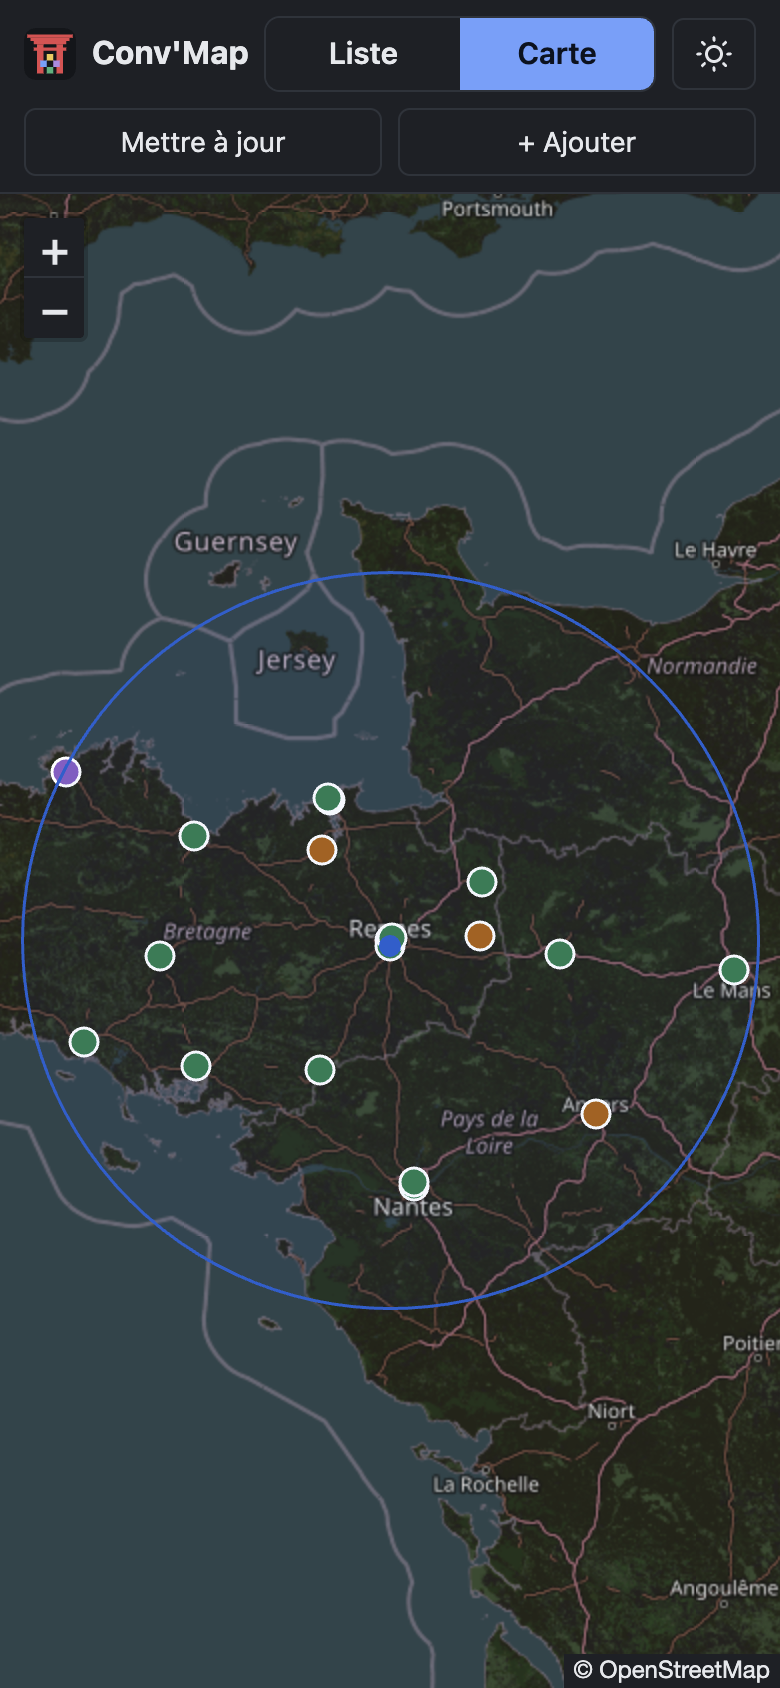
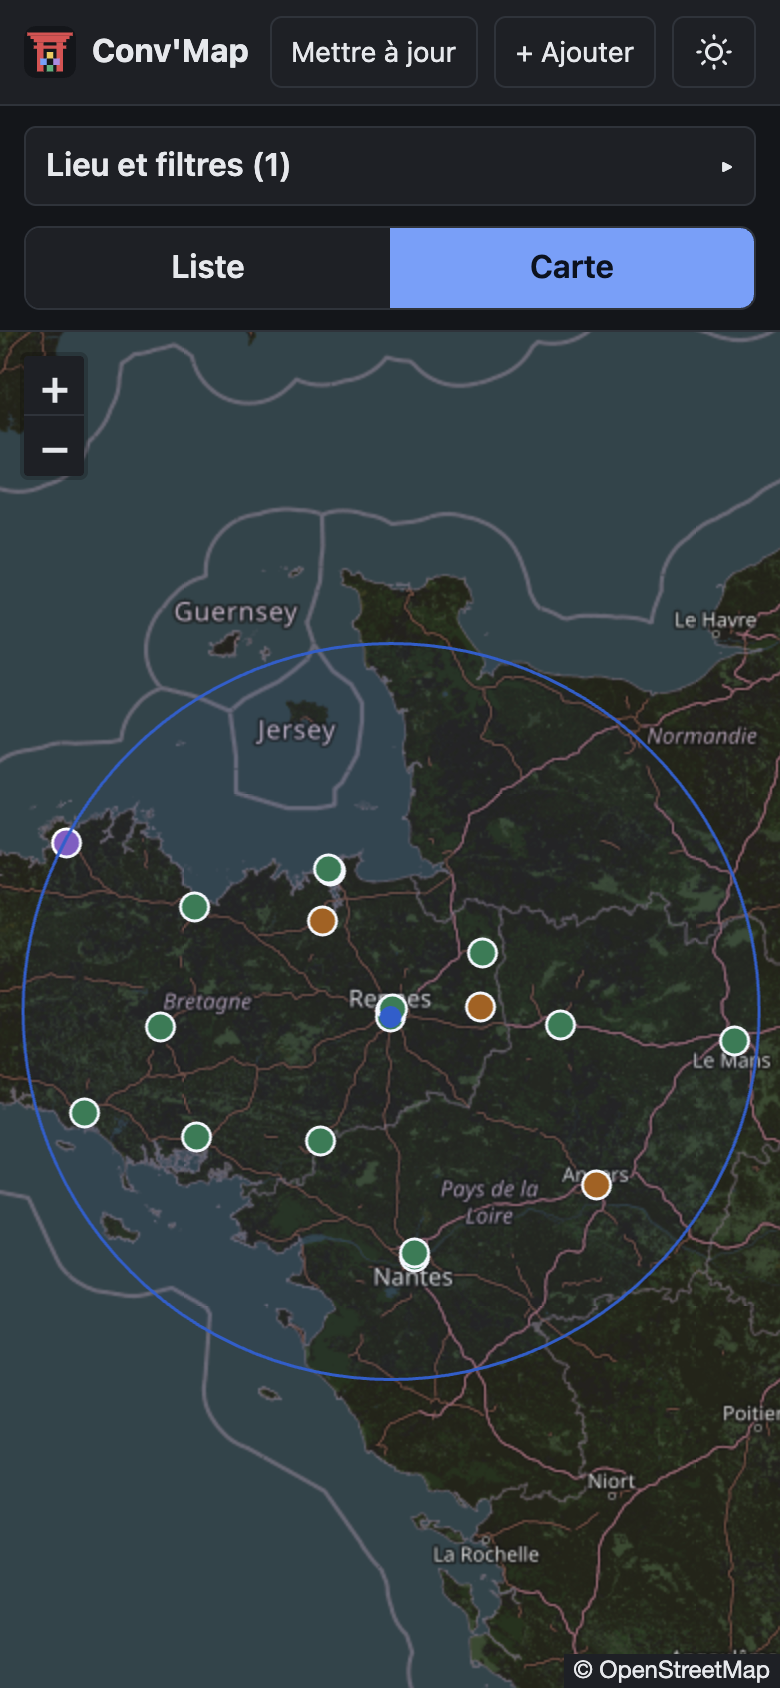
On a phone, put the list / map switch under the filters
The switch sat in the header and the map view hid the whole panel,
filters included. The place and the filters now stay on top of both
views, the switch comes right under them, and below it is either the
list or the map. Status messages sit with the filters, so they show in
both views too.

The map is laid out in the page flow instead of being stacked under the
list and hidden.

diff --git a/public/app.css b/public/app.css
@@ -89,7 +89,7 @@ button[aria-pressed="true"] { background: var(--accent); border-color: var(--acc
 .bar { display: flex; align-items: center; gap: 8px; margin: 14px 0 8px; position: sticky; top: -12px; background: var(--ground); padding: 8px 0; z-index: 2; flex-wrap: wrap; }
 .bar strong { margin-right: auto; }
 .bar select { width: auto; }
-.status { background: var(--note); border: 1px solid var(--note-line); border-radius: 6px; padding: 8px 10px; }
+.status { margin: 12px 0 0; background: var(--note); border: 1px solid var(--note-line); border-radius: 6px; padding: 8px 10px; }
 
 .row { display: grid; grid-template-columns: auto 1fr; gap: 2px 10px; background: var(--card); border: 1px solid var(--line); border-radius: 8px; padding: 9px 11px; margin-bottom: 7px; }
 .row.flash { border-color: var(--accent); box-shadow: 0 0 0 2px color-mix(in srgb, var(--accent) 25%, transparent); }
@@ -188,20 +188,22 @@ button.primary.copied { background: var(--regular); border-color: var(--regular)
   button, select, input:not([type=checkbox]):not([type=radio]):not([type=range]) { min-height: 40px; }
 
   .top { padding: 8px 12px; gap: 8px; }
-  .top h1 { font-size: 16px; margin-right: 0; }
+  .top h1 { font-size: 16px; }
   .top h1 span, #fetched, .long { display: none; }
-  /* Wide enough a basis that the two actions always go to the second line. */
-  .views { display: grid; grid-template-columns: 1fr 1fr; flex: 1 1 60%; min-width: 150px; border: 1px solid var(--line); border-radius: 8px; overflow: hidden; }
-  .views button { border: 0; border-radius: 0; min-height: 36px; font-size: 15px; font-weight: 600; }
-  /* Second line of the header : the two actions, side by side. */
-  .top > button { font-size: 14px; padding: 4px 10px; min-height: 34px; order: 2; flex: 1 1 40%; white-space: nowrap; }
-  .top .icon-button { order: 1; flex: none; min-height: 36px; height: 36px; width: 40px; }
+  .top > button { font-size: 14px; padding: 4px 10px; min-height: 36px; white-space: nowrap; }
+  .top .icon-button { flex: none; height: 36px; width: 40px; }
 
-  main { display: block; position: relative; }
-  .panel { height: 100%; padding: 10px 12px 24px; }
-  #map { position: absolute; inset: 0; min-height: 0; border: 0; }
-  body:not([data-view="map"]) #map { visibility: hidden; pointer-events: none; }
-  body[data-view="map"] .panel { display: none; }
+  /* Top to bottom : the place and filters, the list / map switch, then
+     whichever of the two is chosen. The filters apply to both. */
+  main { display: flex; flex-direction: column; position: relative; min-height: 0; }
+  .panel { display: contents; }
+  .panel-head { flex: none; max-height: 64dvh; overflow-y: auto; padding: 10px 12px; border-bottom: 1px solid var(--line); }
+  .panel-list { flex: 1; min-height: 0; overflow-y: auto; padding: 0 12px 24px; }
+  #map { flex: 1; min-height: 0; border: 0; }
+  body:not([data-view="map"]) #map { display: none; }
+  body[data-view="map"] .panel-list { display: none; }
+  .views { display: grid; grid-template-columns: 1fr 1fr; margin-top: 10px; border: 1px solid var(--line); border-radius: 8px; overflow: hidden; }
+  .views button { border: 0; border-radius: 0; min-height: 40px; font-weight: 600; }
 
   #filters-toggle { display: block; width: 100%; text-align: left; font-weight: 600; }
   #filters-toggle::after { content: '▸'; float: right; }
@@ -212,7 +214,7 @@ button.primary.copied { background: var(--regular); border-color: var(--regular)
   .filters .wide { grid-column: 1 / -1; }
   .km input { width: 96px; }
 
-  .bar { top: -10px; margin-top: 10px; }
+  .bar { top: 0; margin-top: 0; padding-top: 10px; }
   .bar strong { flex-basis: 100%; }
   .bar select { flex: 1; }
   #check-all, #check-none { display: none; }

diff --git a/public/index.html b/public/index.html
@@ -17,10 +17,6 @@
 <body>
 <header class="top">
   <h1><img class="logo" src="favicon.svg" alt="" width="26" height="26">Conv'Map <span>conventions par zone</span></h1>
-  <nav class="views" aria-label="Affichage">
-    <button type="button" data-view="list" aria-pressed="true">Liste</button>
-    <button type="button" data-view="map" aria-pressed="false">Carte</button>
-  </nav>
   <span id="fetched" class="muted"></span>
   <button id="refetch" type="button">Mettre à jour<span class="long"> depuis l'agenda</span></button>
   <button id="add" type="button">+ Ajouter<span class="long"> un évènement</span></button>
@@ -29,6 +25,7 @@
 
 <main>
   <section class="panel">
+    <div class="panel-head">
     <button id="filters-toggle" type="button" aria-expanded="false"></button>
     <div id="filters-box">
     <div class="searches">
@@ -84,6 +81,13 @@
       <datalist id="cities"></datalist>
     </form>
     </div>
+    <p id="status" class="status" hidden></p>
+    <nav class="views" aria-label="Affichage">
+      <button type="button" data-view="list" aria-pressed="true">Liste</button>
+      <button type="button" data-view="map" aria-pressed="false">Carte</button>
+    </nav>
+    </div>
+    <div class="panel-list">
 
     <div class="bar">
       <strong id="count"></strong>
@@ -96,13 +100,13 @@
       <button id="export" type="button" class="primary">Exporter…</button>
     </div>
 
-    <p id="status" class="status" hidden></p>
     <div id="list"></div>
     <details id="unlocated" hidden>
       <summary></summary>
       <div id="unlocated-list"></div>
     </details>
     <footer class="credits">Conv'Map — développé par <a href="https://github.com/meitogi" target="_blank" rel="noopener">meitogi</a> · données : <a href="https://lagendageek.com" target="_blank" rel="noopener">L'Agenda Geek</a> · carte © les contributeurs d'<a href="https://www.openstreetmap.org/copyright" target="_blank" rel="noopener">OpenStreetMap</a></footer>
+    </div>
   </section>
   <div id="map"></div>
   <aside id="map-card" hidden></aside>

diff --git a/docs/fonctionnement.md b/docs/fonctionnement.md
@@ -28,8 +28,9 @@ Pour publier le site : [mise-en-ligne.md](mise-en-ligne.md).
 - **Tri** — par prochaine date, ou par proximité dès qu'un lieu est choisi.
 - **Thème** — clair ou sombre, par l'icône en haut à droite ; celui du système
   au premier lancement.
-- **Sur téléphone** — la liste et la carte sont deux vues, basculées depuis
-  l'en-tête ; le lieu et les filtres se replient derrière un bouton ; les
+- **Sur téléphone** — le lieu et les filtres se replient derrière un bouton
+  et valent pour les deux vues ; juste en dessous, une bascule choisit entre
+  la liste et la carte ; les
   menus s'ouvrent en bas de l'écran ; toucher un point de la carte affiche
   l'évènement dans une fiche par-dessus la carte.
 - **Contacts** — une icône par moyen de contact. E-mail et téléphone ouvrent
